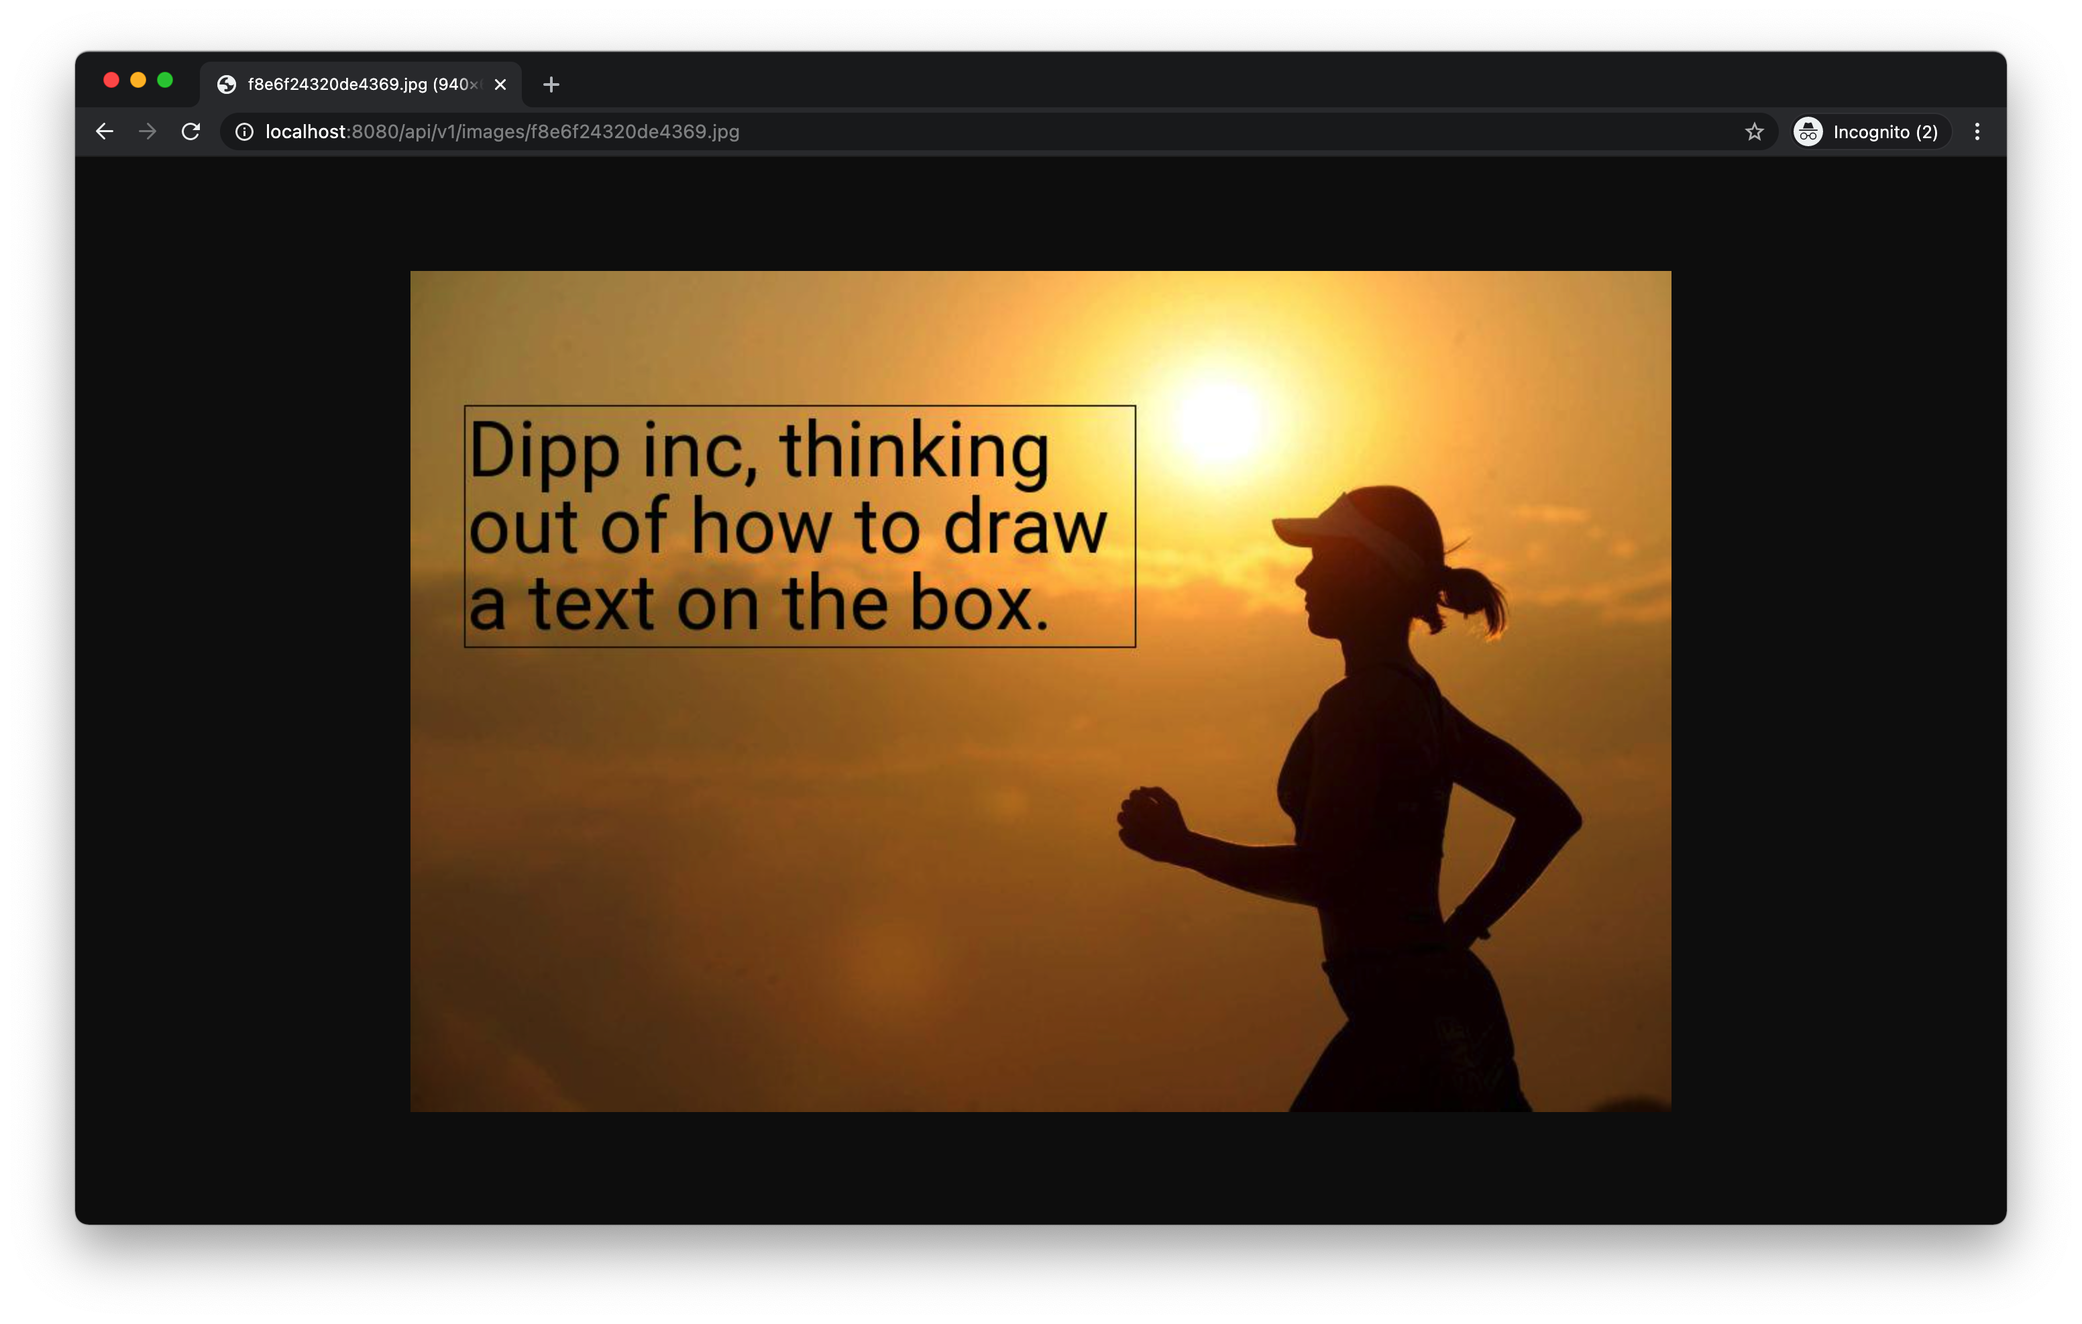
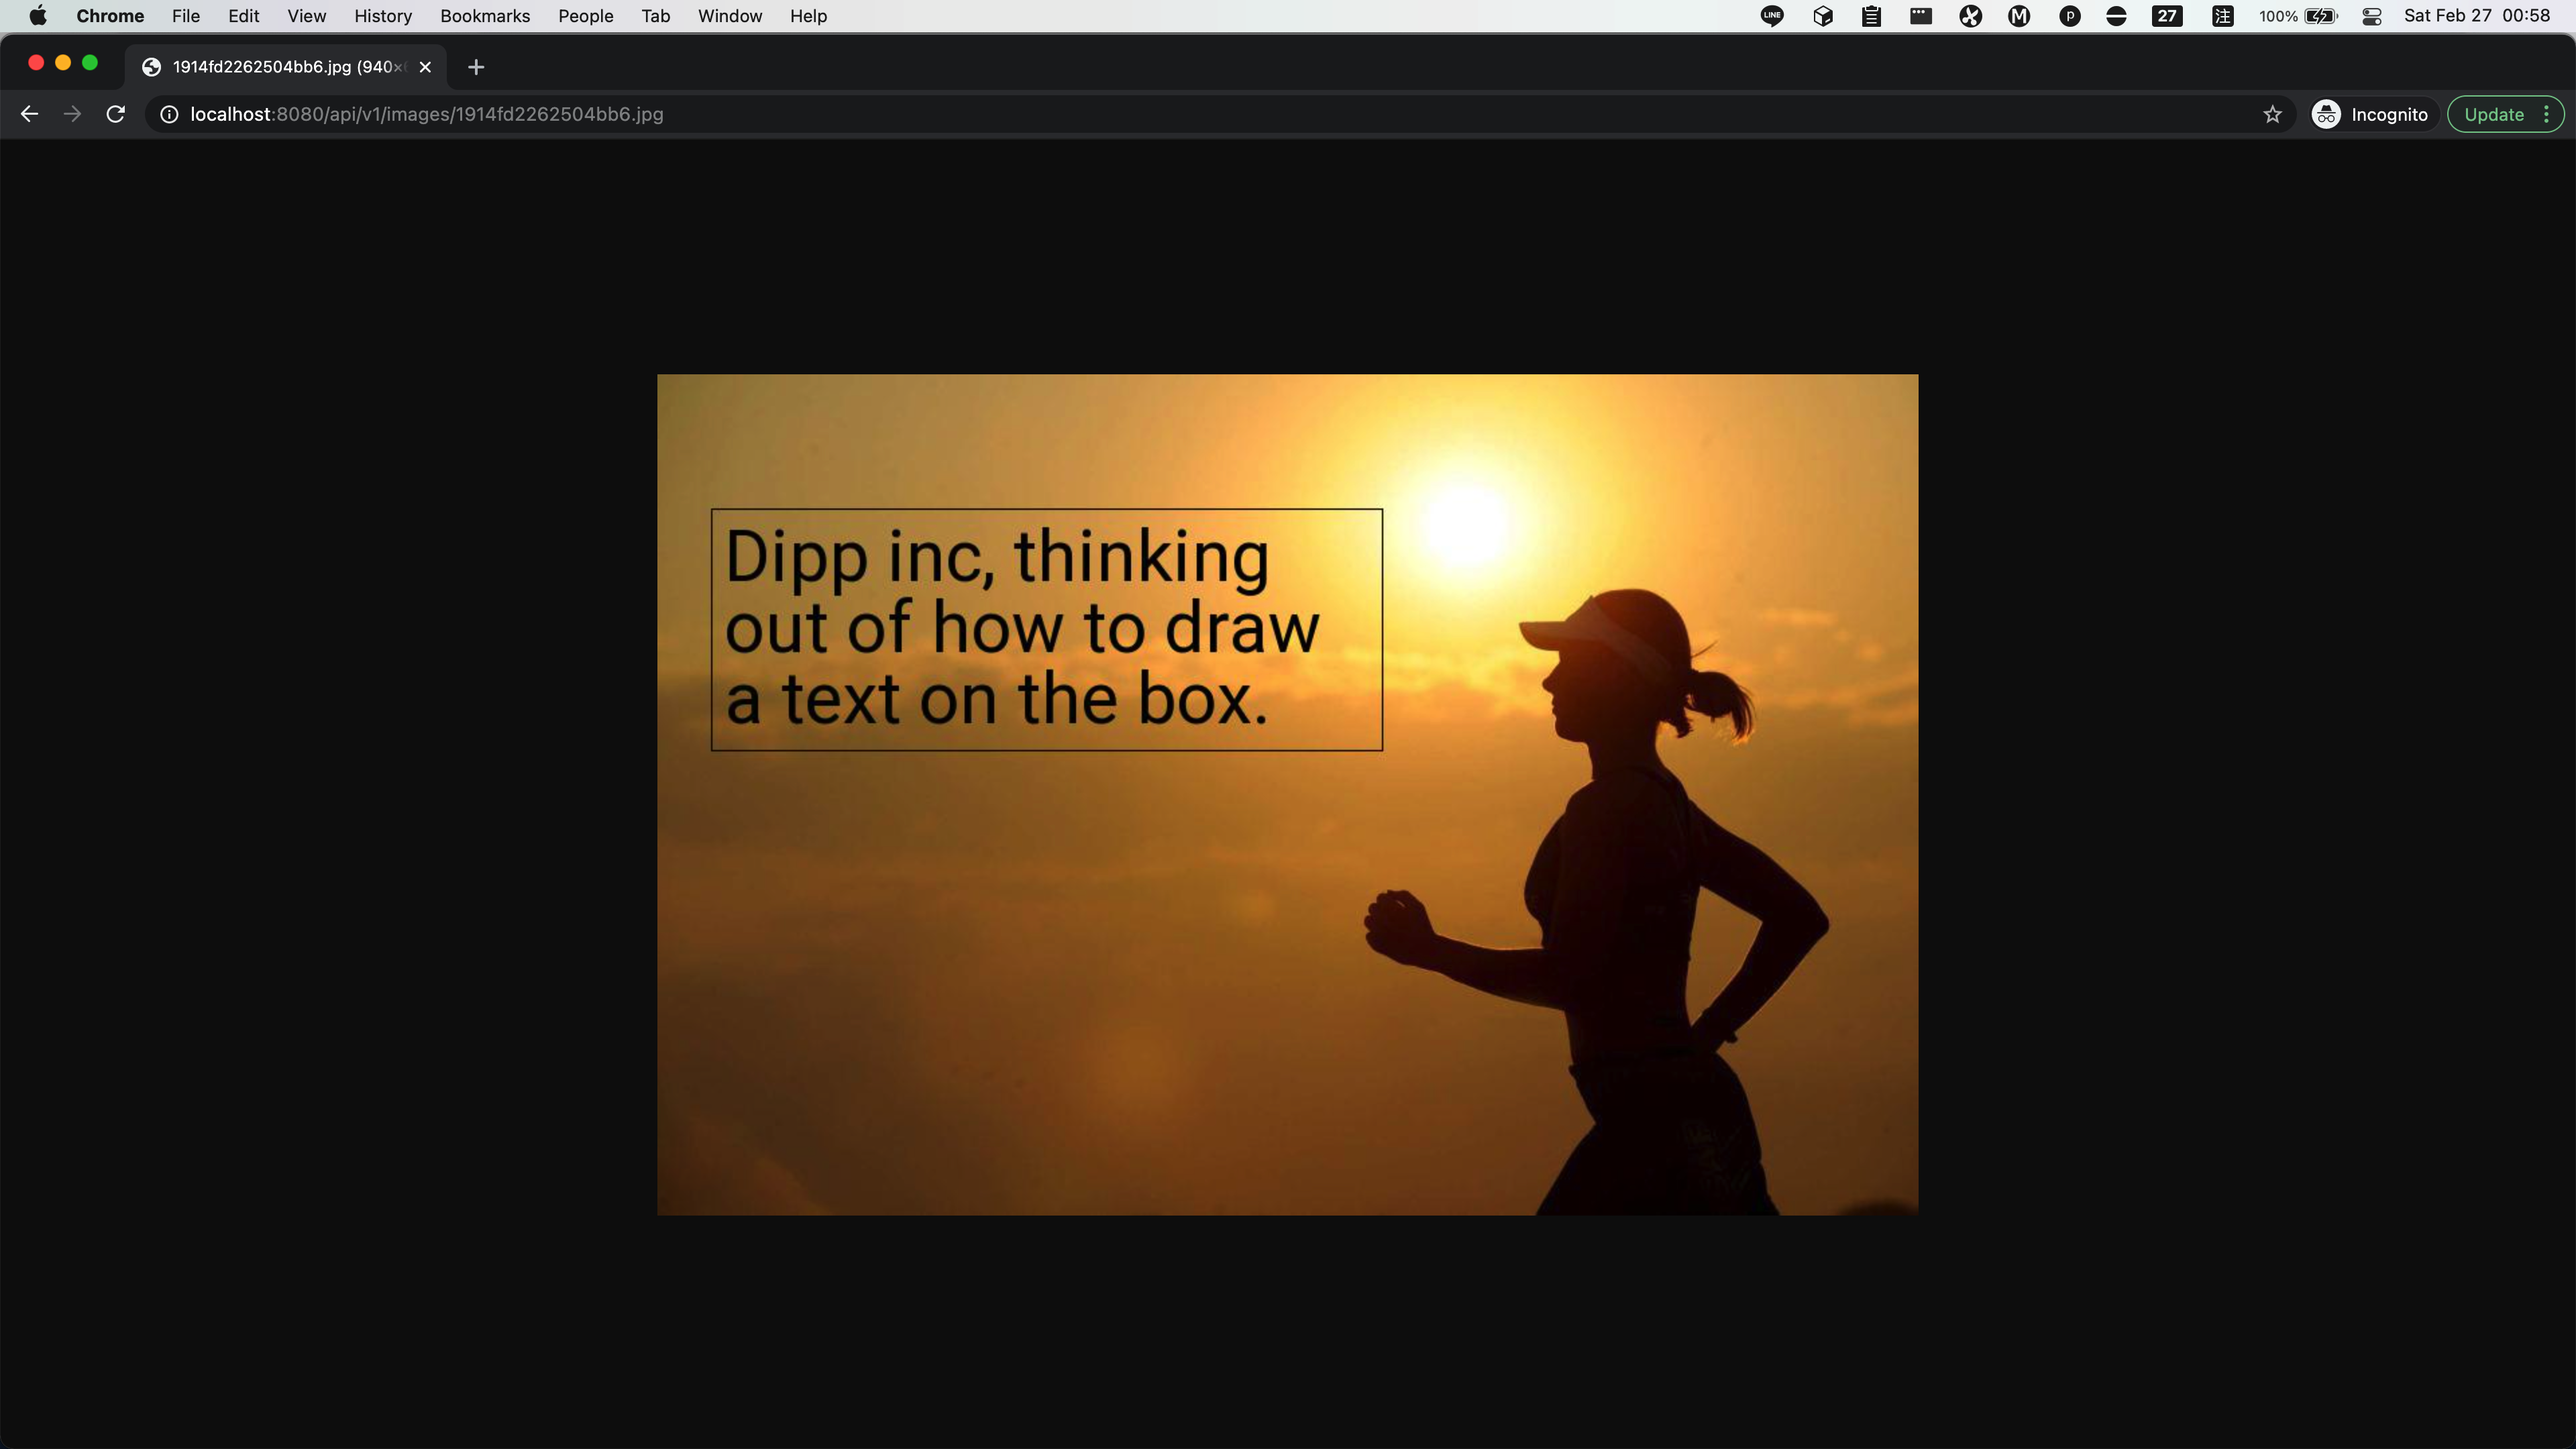
docs(index): update a readme file

diff --git a/tests/conftest.py b/tests/conftest.py
@@ -5,6 +5,7 @@ import os
 import pytest
 
 from app.app import create_app
+from config.config import ConfigName
 
 
 @pytest.fixture(scope="session")
@@ -12,7 +13,7 @@ def app():
     """
     Method to build the Flask application
     """
-    os.environ["FLASK_ENV"] = "test"
+    os.environ["FLASK_ENV"] = ConfigName.TEST.value
     return create_app()
 
 

diff --git a/README.md b/README.md
@@ -23,6 +23,12 @@ the predefined box based on a particular font, and draw this **text box** on an 
     ```shell
     pip install -r requirements.txt
     ```
+   
+1. Run the test cases
+
+    ```shell
+    python -m pytest -v
+    ```
 
 1. Run the server
 
@@ -30,10 +36,10 @@ the predefined box based on a particular font, and draw this **text box** on an 
     python manage.py run
     ```
    
-1. Run the test cases
+1. Get all routes
 
     ```shell
-    python -m pytest -v
+    python manage.py routes
     ```
 
 
@@ -65,25 +71,25 @@ The API should respond with an output similar to the following:
 
 ```json
 {
-    "resource": "http://localhost:8080/api/v1/images/82a78a5d46b443cd.jpg",
+    "resource": "http://localhost:8080/api/v1/images/1914fd2262504bb6.jpg",
     "splits": [
         {
             "content": "Dipp inc, thinking",
-            "font_size": 57,
-            "x": 40,
-            "y": 100
+            "font_size": 53,
+            "x": 50,
+            "y": 104
         },
         {
             "content": "out of how to draw",
-            "font_size": 57,
-            "x": 40,
+            "font_size": 53,
+            "x": 50,
             "y": 157
         },
         {
             "content": "a text on the box.",
-            "font_size": 57,
-            "x": 40,
-            "y": 214
+            "font_size": 53,
+            "x": 50,
+            "y": 210
         }
     ],
     "box": {
